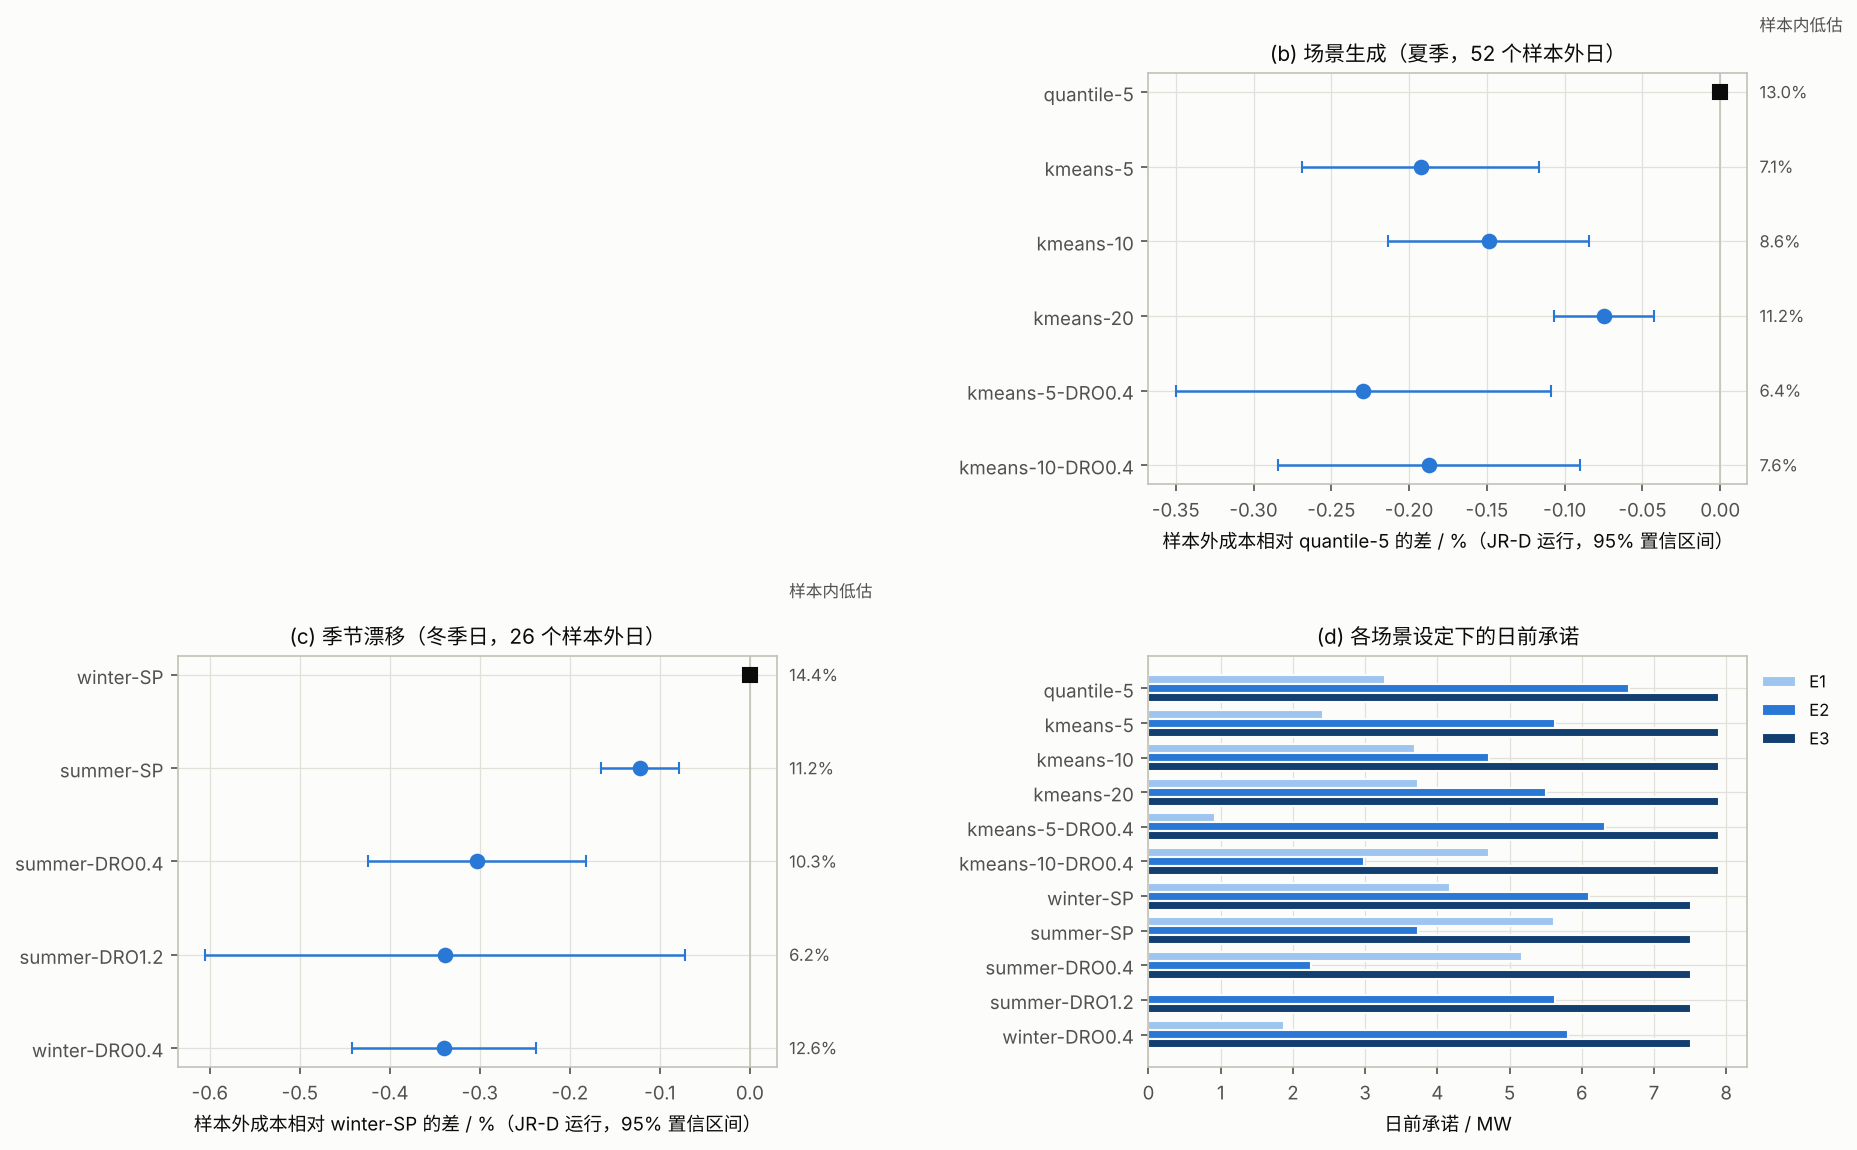
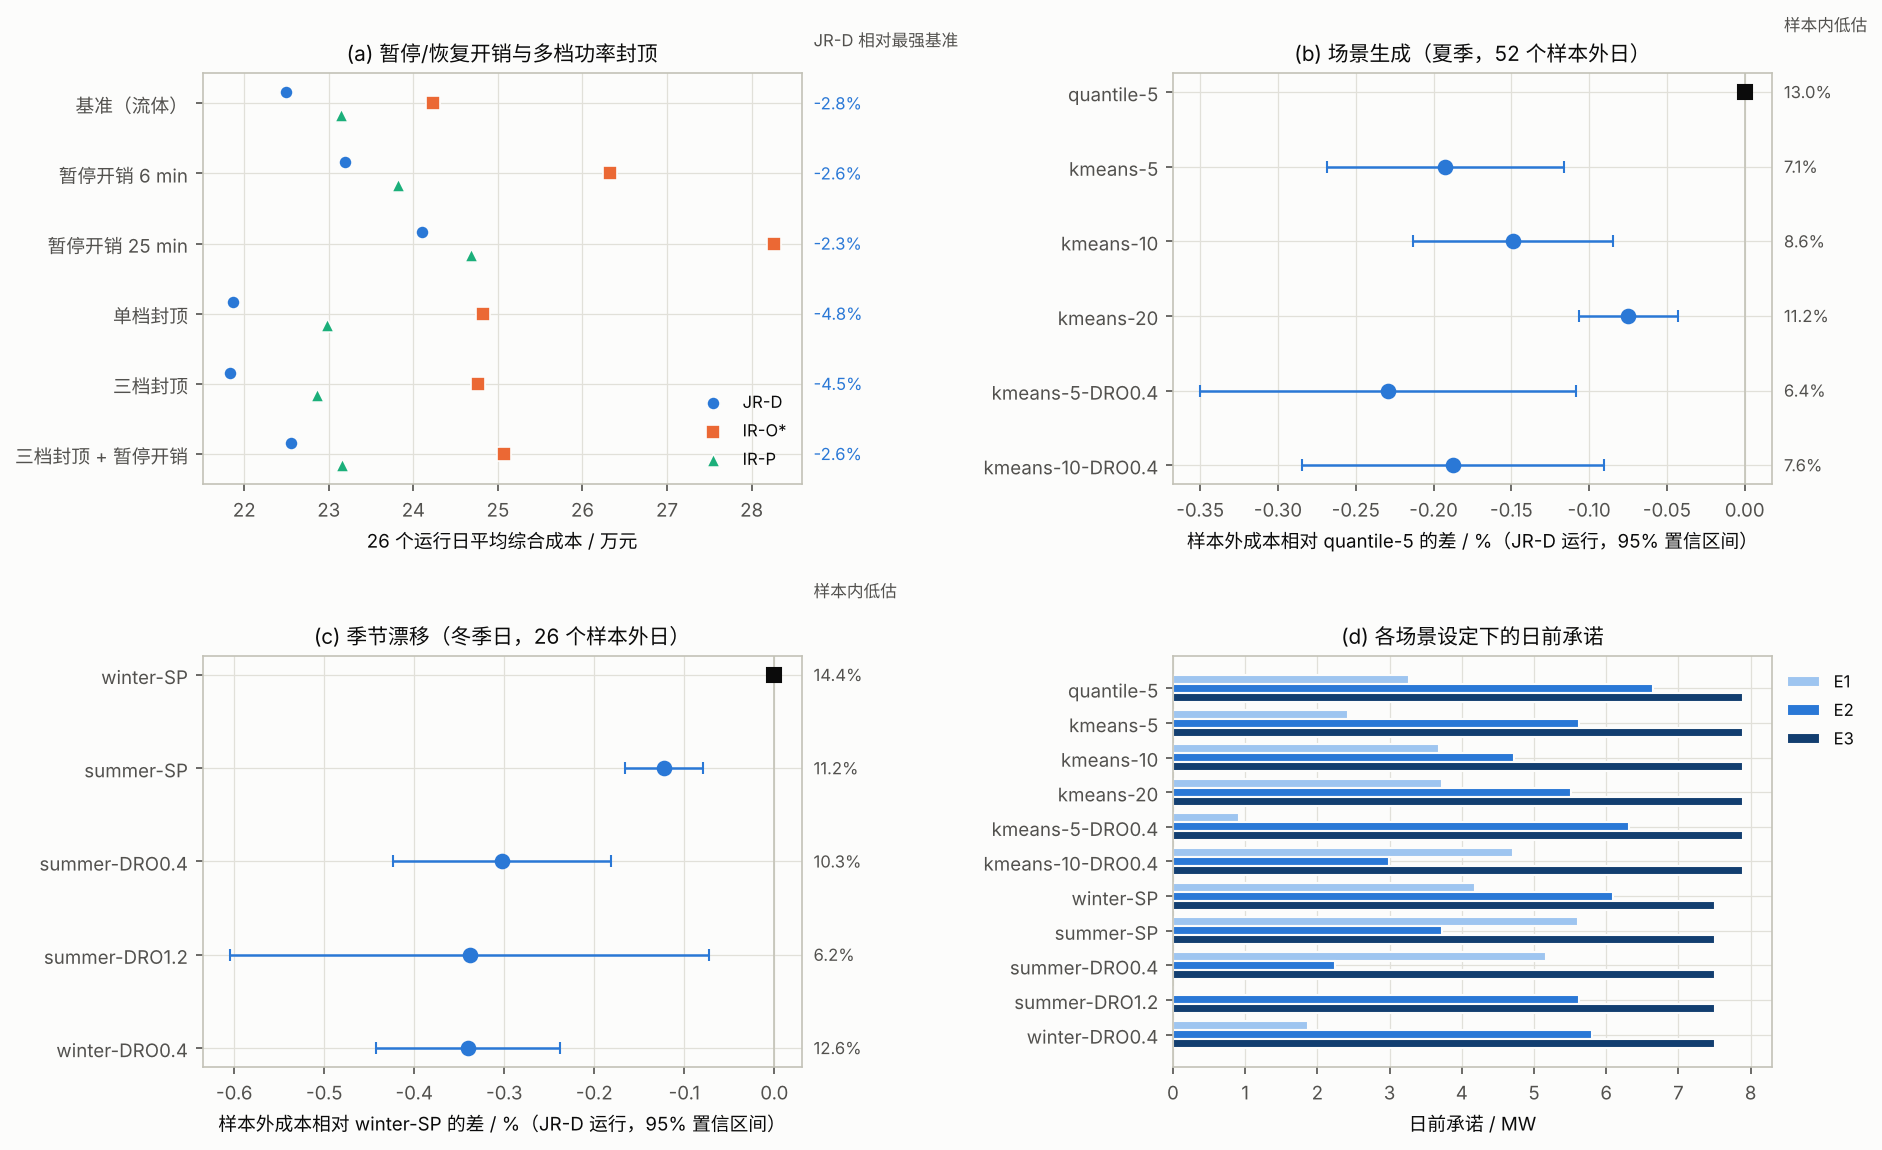
Exp22 complete; section 6.15 (pause overhead and capping levels); Exp10 capping row updated to the rerun
Claude-Session: https://claude.ai/code/session_0173EWkv7nAjgEuhNTshh9Dg

diff --git a/tools/plot_results.py b/tools/plot_results.py
@@ -1042,8 +1042,8 @@ def fig_extensions():
         for i, k in enumerate(ks):
             m, lo, hi, b = _saving(o[(o.setting == k) & (o.realisation > 0)])
             if b is not None:
-                a.text(1.02, i, f"{m:+.1f}%", transform=a.get_yaxis_transform(), va="center", fontsize=8, color=C["JR-D"])
-        a.text(1.02, -0.9, "JR-D 节省", transform=a.get_yaxis_transform(), va="center", fontsize=8, color=INK2)
+                a.text(1.02, i, f"{-m:+.1f}%", transform=a.get_yaxis_transform(), va="center", fontsize=8, color=C["JR-D"])
+        a.text(1.02, -0.9, "JR-D 相对最强基准", transform=a.get_yaxis_transform(), va="center", fontsize=8, color=INK2)
         a.set_yticks(range(len(ks))); a.set_yticklabels([LAB.get(lab[k], lab[k]) for k in ks]); a.invert_yaxis()
         a.set_xlabel("26 个运行日平均综合成本 / 万元"); a.legend(loc="lower right", fontsize=8)
         a.set_title("(a) 暂停/恢复开销与多档功率封顶")

diff --git a/docs/修订稿草稿/2_第6-7节与摘要.md b/docs/修订稿草稿/2_第6-7节与摘要.md
@@ -382,7 +382,7 @@
 | IT 爬坡 ≤2 MW/15 min | 100% / 23.45 | 98.1% / 23.37 | **100% / 22.98** | −1.6% |
 | IT 爬坡 ≤1 MW/15 min | 100% / 23.56 | 95.5% / 23.47 | **100% / 23.29** | −0.8% |
 | 事件前抬升考核 1000 元/MWh | 100% / 25.31 | 96.6% / 24.36 | **100% / 23.59** | −3.2% |
-| GPU 功率封顶（ρ=0.3，β=0.4） | 92.2% / 24.62 | 97.1% / 22.93 | **100% / 22.30** | −2.8% |
+| GPU 功率封顶（ρ=0.3，β=0.4） | 92.0% / 24.63 | 96.4% / 22.94 | **100% / 22.28** | −2.9% |
 
 （表中为兑现率 / 综合成本，万元。）
 
@@ -510,6 +510,31 @@
 
 *图23 案例日作业级综合成本随作业组合与暂停开销的变化（刚性补算约束；空心标记表示有事件无效）。*
 
+### 6.15 暂停/恢复开销与多档功率封顶（实验 22，图 25a）
+
+流体模型加入两项可选扩展（3.1 节）：
+
+- **暂停/恢复开销。** 相对名义负荷每新暂停一张 GPU（$u_{c,t}$），就增加 $o_c$ GPU·h 的额外工作（检查点 + 重启）。基准开销 $o_c$=(1+5)/60 h（异步检查点 1 min + 重启 5 min），慢速 (10+15)/60 h（大模型同步检查点 + 慢重启）。
+- **多档功率封顶。** 单档为功率 −30%、吞吐 −12%；三档为功率 −15%/−30%/−45%，对应吞吐 −3%/−12%/−30%，按凸分段线性的透视函数精确线性化。
+
+承诺统一取 6 MW，每种设定重新调优独立基准，26 个运行日。
+
+| 设定 | JR-D 日均成本 / 万元 | JR-D 相对 IR-P | 三次全有效的天数：JR-D / IR-P / IR-O\* | 暂停开销 GPU·h：JR-D / IR-P / IR-O\* |
+|---|---|---|---|---|
+| 基准（流体） | 22.50 | −2.8%（25/26 天） | 100% / 96% / 92% | — |
+| 暂停开销 6 min | 23.20 | −2.6%（25/26 天） | 96% / 88% / 62% | 1 465 / 1 761 / 2 919 |
+| 暂停开销 25 min | 24.10 | −2.3%（24/26 天） | 100% / 81% / 27% | 3 869 / 4 686 / 5 624 |
+| 单档封顶 | 21.87 | −4.8%（26/26 天） | 100% / 62% / 65% | — |
+| 三档封顶 | 21.83 | −4.5%（26/26 天） | 100% / 65% / 65% | — |
+| 三档封顶 + 暂停开销 6 min | 22.55 | −2.6%（22/26 天） | 96% / 58% / 38% | 1 169 / 1 111 / 244 |
+
+（配对 Wilcoxon 检验 p 均 <4×10⁻⁴。）
+
+1. **暂停开销使成本上升 3.1%（6 min）与 7.1%（25 min）**，与作业级仿真（实验 20：2%–4%）同一量级。JR-D 仍最便宜，相对 IR-P 的降幅从 2.8% 收窄到 2.3%。独立基准的可靠性下降更快：IR-O\* 三次全有效的天数由 92% 降到 62% 与 27%。开销按“新暂停的卡数”计，IR-O\* 的静态分摊在事件之间反复暂停、恢复，开销最大；JR-D 把长作业连续推迟，开销最小（6 min 时为 IR-O\* 的一半）。
+2. **封顶让各策略都更便宜，也扩大了联合恢复的优势。** JR-D 的成本下降 2.8%，相对 IR-P 的降幅扩大到 4.5%–4.8%（26/26 天）。封顶的代价是吞吐损失，它变成额外积压；IR-P 三次全有效的天数由 96% 降到 62%–65%，JR-D 仍为 100%。这与“联合恢复把封顶留下的积压与储能缺口一起跨事件安排”一致。
+3. **三档封顶只比单档再便宜 0.2%。** 单档（−30% 功率 / −12% 吞吐）已基本够用，多档曲线的收益有限。
+4. **封顶与开销同时存在时，两者大体抵消。** JR-D 为 22.55 万元，与基准相当，相对 IR-P 仍低 2.6%（22/26 天）。此时 IR-O\* 更多用封顶而少暂停，开销只有 244 GPU·h，但三次全有效的天数仅 38%。
+
 ### 6.16 日前场景：K-means 缩减与季节漂移（实验 23，图 25b–d）
 
 日前承诺原本用 5 个等概率场景：按算力负荷与光伏的日水平取分位数。这里改用 K-means：把算力日与气象日的全部 280 种组合聚类，取中心日作场景、簇大小作概率（K=5、10、20），并在其周围构造 δ=0.4 的 ℓ1 分布鲁棒集（命题 3）。每组承诺都交给 JR-D 在 52 个样本外运行日滚动执行。
@@ -539,7 +564,7 @@
 
 ![扩展实验](../matlab/figures/fig25_extensions.png)
 
-*图25 (a) 暂停/恢复开销与多档功率封顶下 26 个运行日的平均综合成本（右侧为 JR-D 相对最强独立基准的节省）；(b)(c) 日前场景生成与季节漂移：样本外成本相对参照设定的配对差（95% 置信区间，右侧为样本内估计相对样本外的低估）；(d) 各设定的日前承诺。*
+*图25 (a) 暂停/恢复开销与多档功率封顶下 26 个运行日的平均综合成本（右侧为 JR-D 相对最强独立基准的成本差）；(b)(c) 日前场景生成与季节漂移：样本外成本相对参照设定的配对差（95% 置信区间，右侧为样本内估计相对样本外的低估）；(d) 各设定的日前承诺。*
 
 ## 7 结论
 
@@ -572,7 +597,7 @@
 7. **不确定性与稳健性。**
    - 末次事件以 0.6 概率被调用时，场景 MPC 只比确定性 MPC 低 0.4%（不显著）。
    - 分布鲁棒承诺（δ≈1.2）在样本外同时降低均值（−0.26%）与最差 10% 日（−0.4%），远优于单事件评估（−2.9% / −6.5%）。
-   - 结论在五种分时电价形态（−2.1% 至 −2.9%）、苏州冬季与贵安夏季（−2.6% 至 −2.8%，每天全部有效）、液冷（−7.4%）、GPU 功率封顶（−2.8%）与机房热惯性（闭环 −2.2%）下成立。
+   - 结论在五种分时电价形态（−2.1% 至 −2.9%）、苏州冬季与贵安夏季（−2.6% 至 −2.8%，每天全部有效）、液冷（−7.4%）、GPU 功率封顶（−2.9%）与机房热惯性（闭环 −2.2%）下成立。
    - IT 爬坡限制压缩联合恢复的空间（1 MW/15 min 时只剩 −0.8%）。
 8. **计算。** 日内 MPC 10 个场景时也不到 2 s；日前随机规划 ≤4.3 s，分布鲁棒 ≤25 s，均为一次求解的 MILP。
 9. **局限。** 见第 8 节：流体任务模型、2020 年 PAI 轨迹、场景数有限、热惯性与政策参数取典型值、季节泛化只替换了气象。
